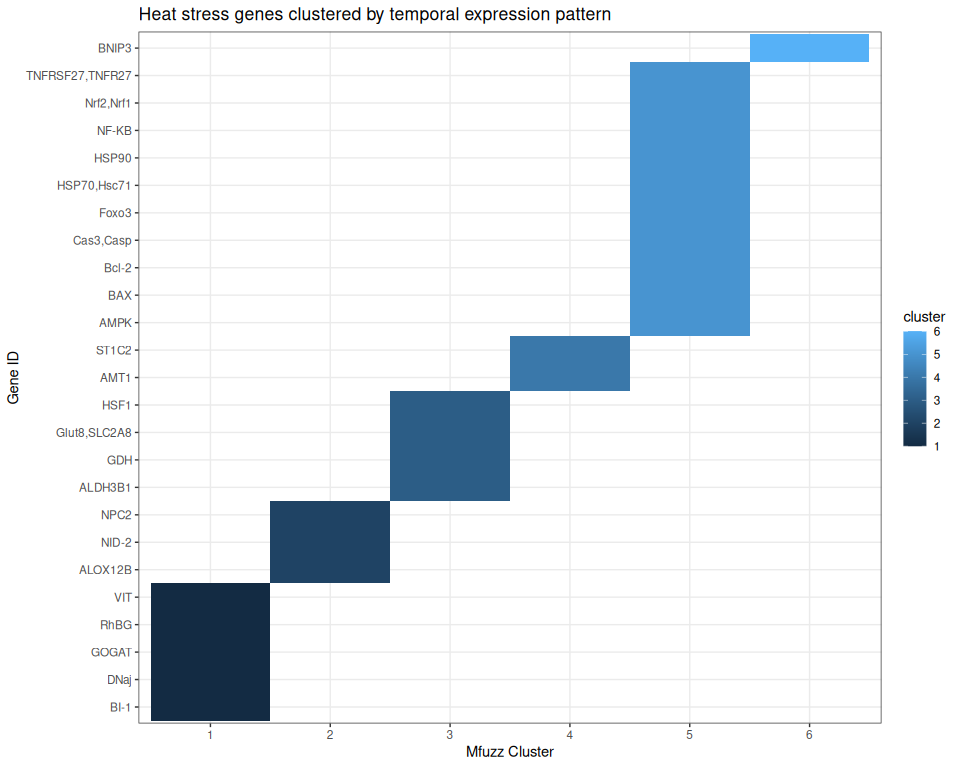
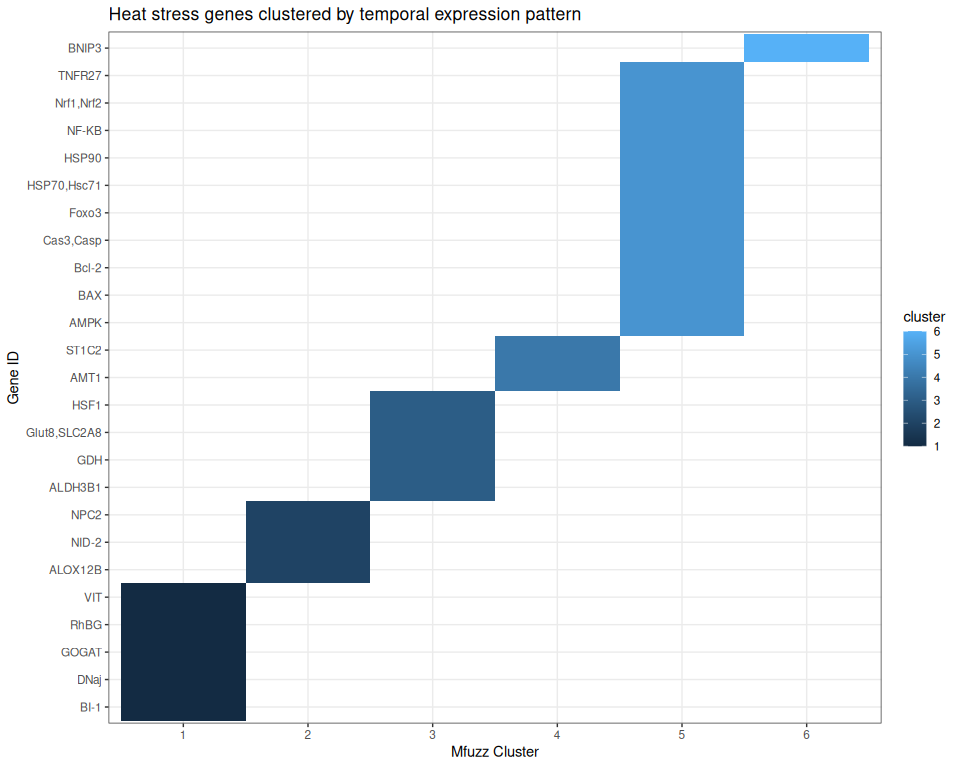
fix tnfr labels in impulse maps

diff --git a/4-multi-species/output_RNA/reports/Mcap/02_ImpulseDE.md b/4-multi-species/output_RNA/reports/Mcap/02_ImpulseDE.md
@@ -1,7 +1,7 @@
 ImpulseDE2 Temporal Analysis
 ================
 Zoe Dellaert
-2026-05-24
+2026-05-29
 
 - [Bulk RNA-seq Time Course Trajectory Analysis and
   Clustering](#bulk-rna-seq-time-course-trajectory-analysis-and-clustering)
@@ -1086,7 +1086,7 @@ dev.off()
 HeatStressGenes <- read_csv(paste0(annot_dir,"/heatstress/HeatStressGenes_", species ,".csv")) %>%
   dplyr::select(-1) %>% dplyr::rename(query = paste0(species,"_gene")) %>% dplyr::select(query,everything())
 
-HeatStressGenes_unique <- HeatStressGenes %>% group_by(query) %>%
+HeatStressGenes_unique <- HeatStressGenes %>% group_by(query) %>% arrange(gene_id) %>%
   summarize(gene_id = paste(unique(gene_id), collapse = ","),
             response_type = paste(unique(response_type), collapse = ","),
             category = paste(unique(category), collapse = ",")) 
@@ -1109,7 +1109,7 @@ cluster_assignments %>% filter(Gene %in% HSPS)
 
 ``` r
 heat_clustered <- HeatStressGenes_unique %>% left_join(cluster_assignments, by = join_by(query==Gene)) %>%
-  arrange(cluster, desc(cluster))
+  arrange(cluster, desc(cluster),gene_id)
 
 # plot this to show which genes are in which cluster
 heat_clustered %>% filter(!is.na(cluster)) %>% ggplot(aes(y=reorder(gene_id, cluster), x=factor(cluster), fill=cluster)) +

diff --git a/4-multi-species/output_RNA/reports/Pacuta/02_ImpulseDE.md b/4-multi-species/output_RNA/reports/Pacuta/02_ImpulseDE.md
@@ -1,7 +1,7 @@
 ImpulseDE2 Temporal Analysis
 ================
 Zoe Dellaert
-2026-05-24
+2026-05-29
 
 - [Bulk RNA-seq Time Course Trajectory Analysis and
   Clustering](#bulk-rna-seq-time-course-trajectory-analysis-and-clustering)
@@ -1205,7 +1205,7 @@ dev.off()
 HeatStressGenes <- read_csv(paste0(annot_dir,"/heatstress/HeatStressGenes_", species ,".csv")) %>%
   dplyr::select(-1) %>% dplyr::rename(query = paste0(species,"_gene")) %>% dplyr::select(query,everything())
 
-HeatStressGenes_unique <- HeatStressGenes %>% group_by(query) %>%
+HeatStressGenes_unique <- HeatStressGenes %>% group_by(query) %>% arrange(gene_id) %>%
   summarize(gene_id = paste(unique(gene_id), collapse = ","),
             response_type = paste(unique(response_type), collapse = ","),
             category = paste(unique(category), collapse = ",")) 
@@ -1228,7 +1228,7 @@ cluster_assignments %>% filter(Gene %in% HSPS)
 
 ``` r
 heat_clustered <- HeatStressGenes_unique %>% left_join(cluster_assignments, by = join_by(query==Gene)) %>%
-  arrange(cluster, desc(cluster))
+  arrange(cluster, desc(cluster),gene_id)
 
 # plot this to show which genes are in which cluster
 heat_clustered %>% filter(!is.na(cluster)) %>% ggplot(aes(y=reorder(gene_id, cluster), x=factor(cluster), fill=cluster)) +

diff --git a/4-multi-species/output_RNA/reports/Pcomp/02_ImpulseDE.md b/4-multi-species/output_RNA/reports/Pcomp/02_ImpulseDE.md
@@ -1,7 +1,7 @@
 ImpulseDE2 Temporal Analysis
 ================
 Zoe Dellaert
-2026-05-24
+2026-05-29
 
 - [Bulk RNA-seq Time Course Trajectory Analysis and
   Clustering](#bulk-rna-seq-time-course-trajectory-analysis-and-clustering)
@@ -1086,7 +1086,7 @@ dev.off()
 HeatStressGenes <- read_csv(paste0(annot_dir,"/heatstress/HeatStressGenes_", species ,".csv")) %>%
   dplyr::select(-1) %>% dplyr::rename(query = paste0(species,"_gene")) %>% dplyr::select(query,everything())
 
-HeatStressGenes_unique <- HeatStressGenes %>% group_by(query) %>%
+HeatStressGenes_unique <- HeatStressGenes %>% group_by(query) %>% arrange(gene_id) %>%
   summarize(gene_id = paste(unique(gene_id), collapse = ","),
             response_type = paste(unique(response_type), collapse = ","),
             category = paste(unique(category), collapse = ",")) 
@@ -1108,7 +1108,7 @@ cluster_assignments %>% filter(Gene %in% HSPS)
 
 ``` r
 heat_clustered <- HeatStressGenes_unique %>% left_join(cluster_assignments, by = join_by(query==Gene)) %>%
-  arrange(cluster, desc(cluster))
+  arrange(cluster, desc(cluster),gene_id)
 
 # plot this to show which genes are in which cluster
 heat_clustered %>% filter(!is.na(cluster)) %>% ggplot(aes(y=reorder(gene_id, cluster), x=factor(cluster), fill=cluster)) +
